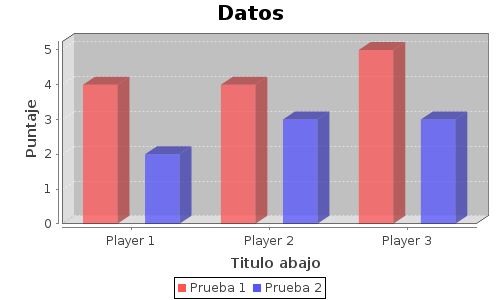
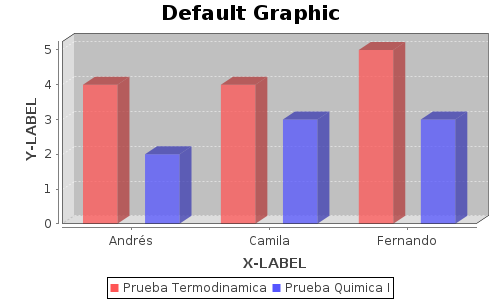
ajudstando post

diff --git a/java-springboot-src/src/main/java/com/dataScienceAnalyst/method/MethodApplication.java b/java-springboot-src/src/main/java/com/dataScienceAnalyst/method/MethodApplication.java
@@ -1,5 +1,6 @@
 package com.dataScienceAnalyst.method;
 
+import com.dataScienceAnalyst.method.jsonEntity.ObjectRequest;
 import org.jfree.chart.ChartFactory;
 import org.jfree.chart.JFreeChart;
 import org.jfree.chart.plot.PlotOrientation;
@@ -10,6 +11,8 @@ import org.springframework.stereotype.Service;
 
 import javax.imageio.ImageIO;
 import javax.servlet.http.HttpServletResponse;
+
+import com.google.gson.Gson;
 import java.awt.image.BufferedImage;
 import java.io.*;
 
@@ -23,7 +26,12 @@ public class MethodApplication {
         SpringApplication.run(MethodApplication.class, args);
     }
 
-    public void export(HttpServletResponse response) throws IOException {
+    public void export(String request, HttpServletResponse response) throws IOException {
+
+
+        ObjectRequest obj = new Gson().fromJson(request, ObjectRequest.class);
+        System.out.println(obj.getWidth());
+        System.out.println(obj.getHeight());
 
         DefaultCategoryDataset data = new DefaultCategoryDataset();
 
@@ -36,9 +44,9 @@ public class MethodApplication {
         data.setValue(3, "Prueba Quimica I", "Fernando");
 
         JFreeChart graphicBar = ChartFactory.createBarChart3D(
-                "Resultados Prueba",
-                "Estudiante",
-                "Puntaje",
+                obj.getTitleGraphic(),
+                obj.getxLabel(),
+                obj.getyLabel(),
                 data,
                 PlotOrientation.VERTICAL,
                 true,
@@ -46,7 +54,7 @@ public class MethodApplication {
                 false
         );
 
-        BufferedImage objBufferedImage= graphicBar.createBufferedImage(500,300);
+        BufferedImage objBufferedImage= graphicBar.createBufferedImage(obj.getWidth(),obj.getHeight());
         ByteArrayOutputStream bas = new ByteArrayOutputStream();
         try {
             ImageIO.write(objBufferedImage, "png", bas);
@@ -66,15 +74,15 @@ public class MethodApplication {
 
         document.open();
         Font fontTitle = FontFactory.getFont(FontFactory.HELVETICA_BOLD);
-        fontTitle.setSize(18);
+        fontTitle.setSize(obj.getTitleSize());
 
-        Paragraph paragraph = new Paragraph("Graficos de los resultados obtenidos", fontTitle);
+        Paragraph paragraph = new Paragraph(obj.getTextTitle(), fontTitle);
         paragraph.setAlignment(Paragraph.ALIGN_CENTER);
 
         Font fontParagraph = FontFactory.getFont(FontFactory.HELVETICA);
-        fontParagraph.setSize(12);
+        fontParagraph.setSize(obj.getParagraphSize());
 
-        Paragraph paragraph2 = new Paragraph("A continuacion se presenta una grafica de barras con los resultados obtenidos en la prueba", fontParagraph);
+        Paragraph paragraph2 = new Paragraph(obj.getTextParagraph(), fontParagraph);
         paragraph2.setAlignment(Paragraph.ALIGN_LEFT);
 
         Image png = Image.getInstance("image.png");

diff --git a/java-springboot-src/src/main/java/com/dataScienceAnalyst/method/jsonEntity/ObjectRequest.java b/java-springboot-src/src/main/java/com/dataScienceAnalyst/method/jsonEntity/ObjectRequest.java
@@ -1,0 +1,85 @@
+package com.dataScienceAnalyst.method.jsonEntity;
+
+public class ObjectRequest {
+    private Integer width;
+    private Integer height;
+    private Integer titleSize;
+    private Integer paragraphSize;
+    private String textTitle;
+    private String textParagraph;
+    private String titleGraphic;
+    private String xLabel;
+    private String yLabel;
+
+    public String getxLabel() {
+        return xLabel;
+    }
+
+    public void setxLabel(String xLabel) {
+        this.xLabel = xLabel;
+    }
+
+    public String getyLabel() {
+        return yLabel;
+    }
+
+    public void setyLabel(String yLabel) {
+        this.yLabel = yLabel;
+    }
+
+    public String getTitleGraphic() {
+        return titleGraphic;
+    }
+
+    public void setTitleGraphic(String titleGraphic) {
+        this.titleGraphic = titleGraphic;
+    }
+
+    public Integer getWidth() {
+        return width;
+    }
+
+    public void setWidth(Integer width) {
+        this.width = width;
+    }
+
+    public Integer getHeight() {
+        return height;
+    }
+
+    public void setHeight(Integer height) {
+        this.height = height;
+    }
+
+    public Integer getTitleSize() {
+        return titleSize;
+    }
+
+    public void setTitleSize(Integer titleSize) {
+        this.titleSize = titleSize;
+    }
+
+    public Integer getParagraphSize() {
+        return paragraphSize;
+    }
+
+    public void setParagraphSize(Integer paragraphSize) {
+        this.paragraphSize = paragraphSize;
+    }
+
+    public String getTextTitle() {
+        return textTitle;
+    }
+
+    public void setTextTitle(String textTitle) {
+        this.textTitle = textTitle;
+    }
+
+    public String getTextParagraph() {
+        return textParagraph;
+    }
+
+    public void setTextParagraph(String textParagraph) {
+        this.textParagraph = textParagraph;
+    }
+}

diff --git a/java-springboot-src/src/main/java/com/dataScienceAnalyst/method/controller/MainController.java b/java-springboot-src/src/main/java/com/dataScienceAnalyst/method/controller/MainController.java
@@ -8,9 +8,11 @@ import com.dataScienceAnalyst.method.MethodApplication;
 import javax.servlet.http.HttpServletRequest;
 import javax.servlet.http.HttpServletResponse;
 import java.io.IOException;
+import java.nio.charset.StandardCharsets;
 import java.text.DateFormat;
 import java.text.SimpleDateFormat;
 import java.util.Date;
+import java.util.stream.Collectors;
 
 @RestController
 @RequestMapping("/demo")
@@ -31,13 +33,16 @@ public class MainController {
         String headerValue = "attachment; filename=pdf_" + currentDateTime + ".pdf";
         response.setHeader(headerKey, headerValue);
 
-        this.methodService.export(response);
+        //this.methodService.export(response);
     }
 
     @RequestMapping(value="/method", method = RequestMethod.POST)
-    public void methodTeam2(HttpServletRequest request) throws IOException {
-        System.out.println("HII here is the request");
-        System.out.println(request);
-        this.methodService.export((HttpServletResponse) request);
+    public void methodTeam2(HttpServletRequest request, HttpServletResponse response) throws IOException {
+        String bodyUrlEncoded = request.getReader().lines().collect(Collectors.joining(System.lineSeparator()));
+        System.out.println(bodyUrlEncoded);
+        String data = bodyUrlEncoded.split("=")[1];
+        String bodyText = java.net.URLDecoder.decode(data, StandardCharsets.UTF_8.displayName());
+        System.out.println(bodyText);
+        this.methodService.export(bodyText,response);
     }
 }
